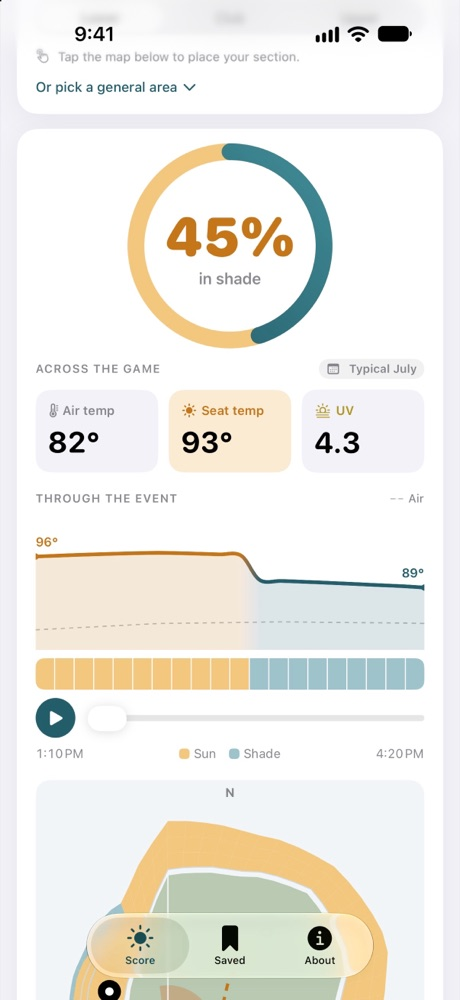
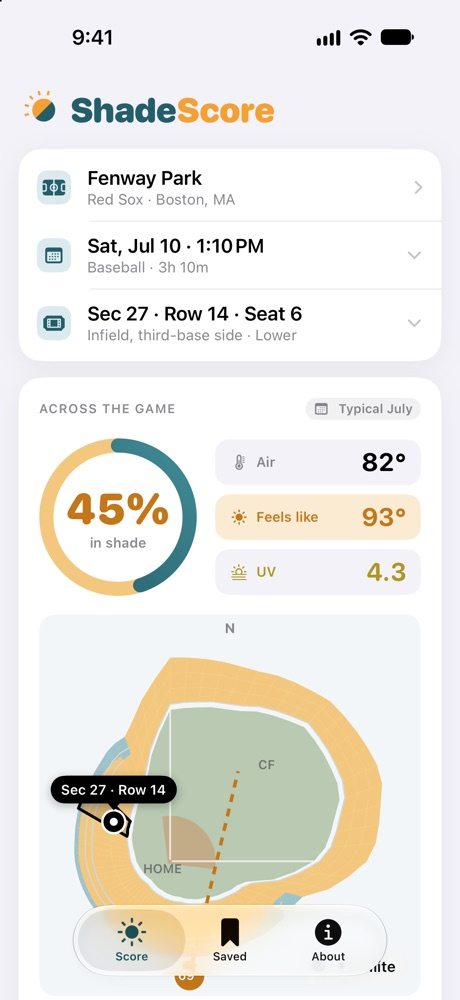
New app screenshots: game summary, zoomable map with section, Feels like timeline

diff --git a/index.html b/index.html
@@ -34,17 +34,17 @@
 
 <section class="demo" aria-label="How ShadeScore works">
   <div class="phone">
-    <img class="shot on" src="img/phone-02-score.jpg" alt="Choosing Fenway Park, a date and a time">
-    <img class="shot" src="img/phone-05-map.jpg" alt="Tapping the stadium map to pick a seat">
-    <img class="shot" src="img/phone-03-score-chart.jpg" alt="45% in shade, with air temperature, seat temperature and UV">
-    <img class="shot" src="img/phone-04-moment.jpg" alt="Playing through the game at 2:10 PM">
+    <img class="shot on" src="img/phone-02-score.jpg" alt="Fenway Park, Saturday July 10 at 1:10 PM, section 27, row 14, seat 6">
+    <img class="shot" src="img/phone-05-map.jpg" alt="Zoomed into the stadium map, with section 27 outlined">
+    <img class="shot" src="img/phone-03-score-chart.jpg" alt="45% in shade, with the air temperature, how warm the seat feels, and UV">
+    <img class="shot" src="img/phone-04-moment.jpg" alt="Sliding through the game: the seat feels like 96° at 2:10 PM">
     <img class="shot" src="img/phone-06-satellite.jpg" alt="Satellite view of the real stadium with the shade laid over it">
   </div>
   <ol class="steps">
     <li class="on"><b>Pick your game</b><span>Choose the stadium, date and start time.</span></li>
-    <li><b>Add your seat</b><span>Type your section, row and seat, or just tap the map. Optional.</span></li>
+    <li><b>Add your seat</b><span>Type your section, row and seat, or tap the map. Pinch to zoom in on your section.</span></li>
     <li><b>See your score</b><span>How much of the game you'll be in shade, the air temperature, how hot your seat will feel, and the UV.</span></li>
-    <li><b>Watch it play out</b><span>Press play to see the sun move and the temperatures change through the game.</span></li>
+    <li><b>Watch it play out</b><span>Press play or slide to see the sun move and what your seat feels like, moment by moment.</span></li>
     <li><b>See it for real</b><span>Look at the shade on a satellite view of the stadium, and save your games.</span></li>
   </ol>
 </section>
